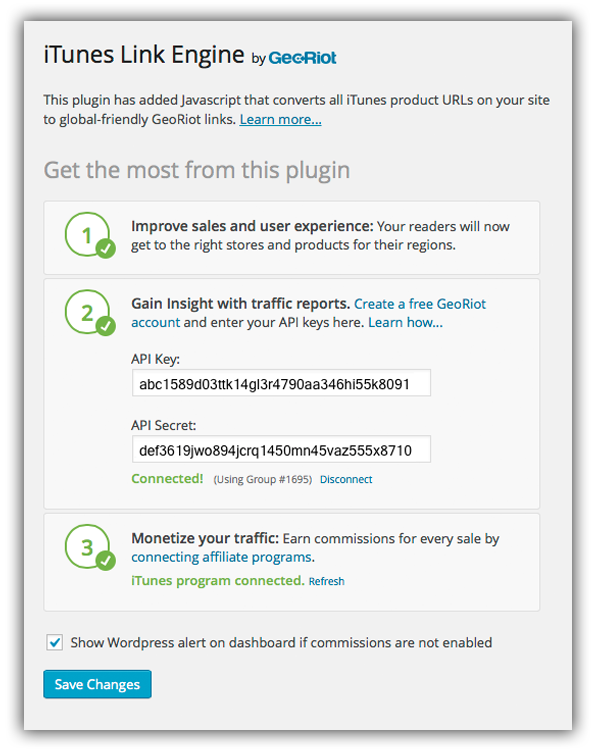
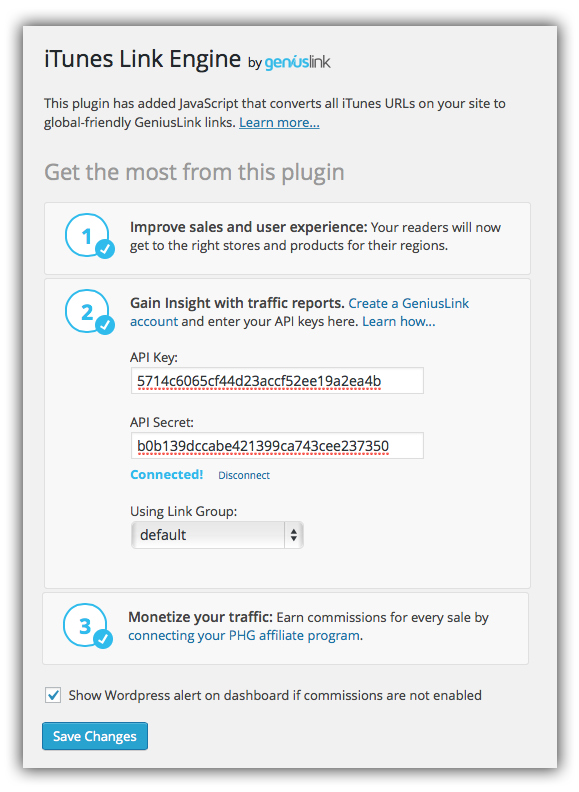
Content updates: screwenshots, fix mentions of Georiot and georiot links. Update readme files.

Changed region(s): [[0.0622, 0.1225, 0.9326, 0.9494], [0.0311, 0.0, 0.9637, 0.0919], [0.9326, 0.9494, 0.9637, 0.98]]

diff --git a/itunes-link-engine/trunk/options.php b/itunes-link-engine/trunk/options.php
@@ -486,7 +486,7 @@
         2
       </div>
       <div class="gr-step-info">
-          <strong>Gain Insight with traffic reports.</strong> <a href="http://my.geni.us/Join?utm_source=ILE&utm_medium=API&utm_campaign=ILE%20Signup"">Create a GeniusLink account</a> and enter your API keys here.
+          <strong>Gain Insight with traffic reports.</strong> <a target="_blank" href="http://social.geni.us/iLESignup"">Create a GeniusLink account</a> and enter your API keys here.
           <a href="#faq-apikeys">Learn how...</a>
 
           <br><br>
@@ -527,7 +527,7 @@
         3
       </div>
       <div class="gr-step-info">
-        <strong>Monetize your traffic:</strong> Earn commissions for every sale by <a href="http://manage.georiot.com/Affiliate">connecting your PHG affiliate program</a>.
+        <strong>Monetize your traffic:</strong> Earn commissions for every sale by <a target="_blank" href="http://my.geni.us/Affiliate">connecting your PHG affiliate program</a>.
         <br>
         <div id="gr-affiliates-spinner">
           <div class="css-only-spinner">
@@ -586,7 +586,7 @@
       <p>To get your GeniusLink API Keys, follow these simple steps:
       </p>
       <ol>
-        <li>If you do not have a GeniusLink account, <a href="http://www.georiot.com/Wordpress-Plugin/iTunes-Sign-Up">create an account</a>.</li>
+        <li>If you do not have a GeniusLink account, <a target="_blank" href="http://social.geni.us/iLESignup">create an account</a>.</li>
 
         <li>Log into your GeniusLink Dashboard, and navigate to the to the Account Tab.</li>
 
@@ -605,12 +605,15 @@
       <p>
         First, connect the plugin to your GeniusLink account (see “How do I get my API keys?”).  Then, follow the steps below:</p>
       <ol>
-        <li>Add your PHG affiliate parameter to your GeniusLink dashboard.  Instructions on how to do this can be found <a href="http://support.georiot.com/support/solutions/articles/71867-add-existing-affiliate">here</a>.
+        <li>Add your PHG affiliate parameter to your GeniusLink dashboard.  Instructions on how to do this can be found <a target="_blank" href="http://support.georiot.com/support/solutions/articles/71867-add-existing-affiliate">here</a>.
         <br><strong>Note:</strong> If you’ve already done this within your existing GeniusLink account, you do not need to add your parameter again.
         </li>
         <li> You’re all set! You’ll start earning commissions from anything purchased from iTunes.</li>
         <p>
-          <strong>Please Note:</strong> If you are already using affiliated links on your website, they will not remain affiliated if you use the iTunes Link Engine Plugin.  In order to affiliate your links, you must <a href="http://www.georiot.com/Wordpress-Plugin/iTunes-Sign-Up">sign up for a GeniusLink account</a> and add your affiliate parameters to the dashboard.  Once you have done this, and connected your account using the API keys, each of your links will be automatically affiliated.
+          <strong>Please Note:</strong> If you are already using affiliated links on your website,
+          they will not remain affiliated if you use the iTunes Link Engine Plugin.
+          In order to affiliate your links, you must
+          <a target="_blank" href="http://social.geni.us/iLESignup">sign up for a GeniusLink account</a> and add your affiliate parameters to the dashboard.  Once you have done this, and connected your account using the API keys, each of your links will be automatically affiliated.
         </p>
       </ol>
                
@@ -618,7 +621,8 @@
       <h4 id="faq-pay">Do I have to pay for GeniusLink?</h4>
       <p>If you’re only interested in giving your international audience a better experience by redirecting them to their local storefront, the iTunes Link Engine is completely free.
       </p>
-      <p>However, if you would like access to advanced reporting features and be able to affiliate all of your links, you will need to sign up for a GeniusLink account.
+      <p>However, if you would like access to advanced reporting features and be able to affiliate all of your links, you will need to
+        <a target="_blank" href="http://social.geni.us/ALEGenius">sign up for a GeniusLink account</a>.
       </p>
       <p><strong>Please note: By default, GeniusLink's affiliate parameters will be used until
           you have added your own via the GeniusLink dashboard.</strong>

diff --git a/amazon-link-engine/trunk/options.php b/amazon-link-engine/trunk/options.php
@@ -498,7 +498,7 @@
         2
       </div>
       <div class="gr-step-info">
-          <strong>Gain Insight with traffic reports.</strong> <a href="http://my.geni.us/Join?utm_source=ALE&utm_medium=API&utm_campaign=ALE%20Signup">Create a GeniusLink account</a> and enter your API keys here.
+          <strong>Gain Insight with traffic reports.</strong> <a target="_blank" href="http://social.geni.us/ALEGenius">Create a GeniusLink account</a> and enter your API keys here.
           <a href="#faq-apikeys">Learn how...</a>
 
           <br><br>
@@ -539,7 +539,7 @@
         3
       </div>
       <div class="gr-step-info">
-        <strong>Monetize your traffic:</strong> Earn commissions for every sale by <a href="http://manage.georiot.com/Affiliate">connecting affiliate programs</a>.
+        <strong>Monetize your traffic:</strong> Earn commissions for every sale by <a target="_blank" href="http://my.geni.us/Affiliate">connecting affiliate programs</a>.
         <br>
 
         <span id="gr-affiliates-loaded"><span id="gr-aff-enrolled">0</span> of <span id="gr-aff-available">0</span>
@@ -611,7 +611,7 @@
       <p>To get your GeniusLink API Keys, follow these simple steps:
       </p>
       <ol>
-        <li>If you do not have a GeniusLink account, <a href="http://www.georiot.com/wordpress-plugin/sign-up">create an account</a>.</li>
+        <li>If you do not have a GeniusLink account, <a target="_blank" href="http://social.geni.us/ALEGenius">create an account</a>.</li>
 
         <li>Log into your GeniusLink Dashboard, and navigate to the to the Account Tab.</li>
 
@@ -628,7 +628,7 @@
       <p>
         First, connect the plugin to your GeniusLink account (see “How do I get my API keys?”).  Then, follow the steps below:</p>
       <ol>
-        <li>Add your Amazon Affiliate parameters to your GeniusLink dashboard.  Instructions on how to do this can be found <a href="http://support.georiot.com/support/solutions/articles/71867-add-existing-affiliate">here</a>.
+        <li>Add your Amazon Affiliate parameters to your GeniusLink dashboard.  Instructions on how to do this can be found <a target="_blank" href="http://support.georiot.com/support/solutions/articles/71867-add-existing-affiliate">here</a>.
         <br><strong>Note:</strong> If you’ve already done this within your existing GeniusLink account, you do not need to add your parameters again.
         </li>
         <li> You’re all set!  You’ll start earning international commissions from anything purchased in Amazon’s international storefronts.</li>
@@ -638,7 +638,8 @@
       <h4 id="faq-pay">Do I have to pay for GeniusLink?</h4>
       <p>If you’re only interested in giving your international audience a better experience by redirecting them to their local storefront, the Amazon Link Engine is completely free.
       </p>
-      <p>However, if you would like access to advanced reporting features and be able to affiliate all of your links, you will need to sign up for a GeniusLink account.
+      <p>However, if you would like access to advanced reporting features and be able to affiliate all of your links, you will need to
+        <a target="_blank" href="http://social.geni.us/ALEGenius">sign up for a GeniusLink account</a>.
       </p>
       <p><strong>Please note: By default, GeniusLink's affiliate parameters will be used until
           you have added your own via the GeniusLink dashboard.</strong>
@@ -648,7 +649,8 @@
       <h4 id="faq-honor-tracking">What is "Honor existing affiliate tracking id's"?</h4>
       <p>If you’re only interested in giving your international audience a better experience by redirecting them to their local storefront, the Amazon Link Engine is completely free.
       </p>
-      <p>However, if you would like access to advanced reporting features and be able to affiliate all of your links, you will need to sign up for a GeniusLink account.
+      <p>However, if you would like access to advanced reporting features and be able to affiliate
+        all of your links, you will need to <a target="_blank" href="http://social.geni.us/ALEGenius">sign up for a GeniusLink account</a>.
       </p>
       <p><strong>Please note: By default, GeniusLink's affiliate parameters will be used until
           you have added your own via the GeniusLink dashboard.</strong>

diff --git a/itunes-link-engine/trunk/itunes-link-engine.php b/itunes-link-engine/trunk/itunes-link-engine.php
@@ -58,7 +58,7 @@ function georiot_ile_admin_notice(){
     if (get_option('georiot_api_remind') == 'yes' && get_option('georiot_tsid') == '') {
       ?>
       <div class="update-nag">
-        <p><?php _e('<strong>Your iTunes Link Engine plugin is installed and working.</strong> <br>To use reporting and commissions, <a href="'.admin_url().'options-general.php?page=itunes-link-engine">enter your GeoRiot API values.</a>. Or, you can <a href="'.admin_url().'options-general.php?page=itunes-link-engine">disable this reminder.</a>'); ?></p>
+        <p><?php _e('<strong>Your iTunes Link Engine plugin is installed and working.</strong> <br>To use reporting and commissions, <a href="'.admin_url().'options-general.php?page=itunes-link-engine">enter your GeniusLink API values.</a>. Or, you can <a href="'.admin_url().'options-general.php?page=itunes-link-engine">disable this reminder.</a>'); ?></p>
       </div>
     <?php
     }

diff --git a/amazon-link-engine/trunk/amazon-link-engine.php b/amazon-link-engine/trunk/amazon-link-engine.php
@@ -61,7 +61,7 @@ function georiot_admin_notice(){
     if (get_option('georiot_api_remind') == 'yes' && get_option('georiot_tsid') == '') {
       ?>
       <div class="update-nag">
-        <p><?php _e('<strong>Your Amazon Link Engine plugin is installed and working.</strong> <br>To use reporting and commissions, <a href="'.admin_url().'options-general.php?page=amazon-link-engine">enter your GeoRiot API values.</a>. Or, you can <a href="'.admin_url().'options-general.php?page=amazon-link-engine">disable this reminder.</a>'); ?></p>
+        <p><?php _e('<strong>Your Amazon Link Engine plugin is installed and working.</strong> <br>To use reporting and commissions, <a href="'.admin_url().'options-general.php?page=amazon-link-engine">enter your GeniusLink API values.</a>. Or, you can <a href="'.admin_url().'options-general.php?page=amazon-link-engine">disable this reminder.</a>'); ?></p>
       </div>
     <?php
     }
